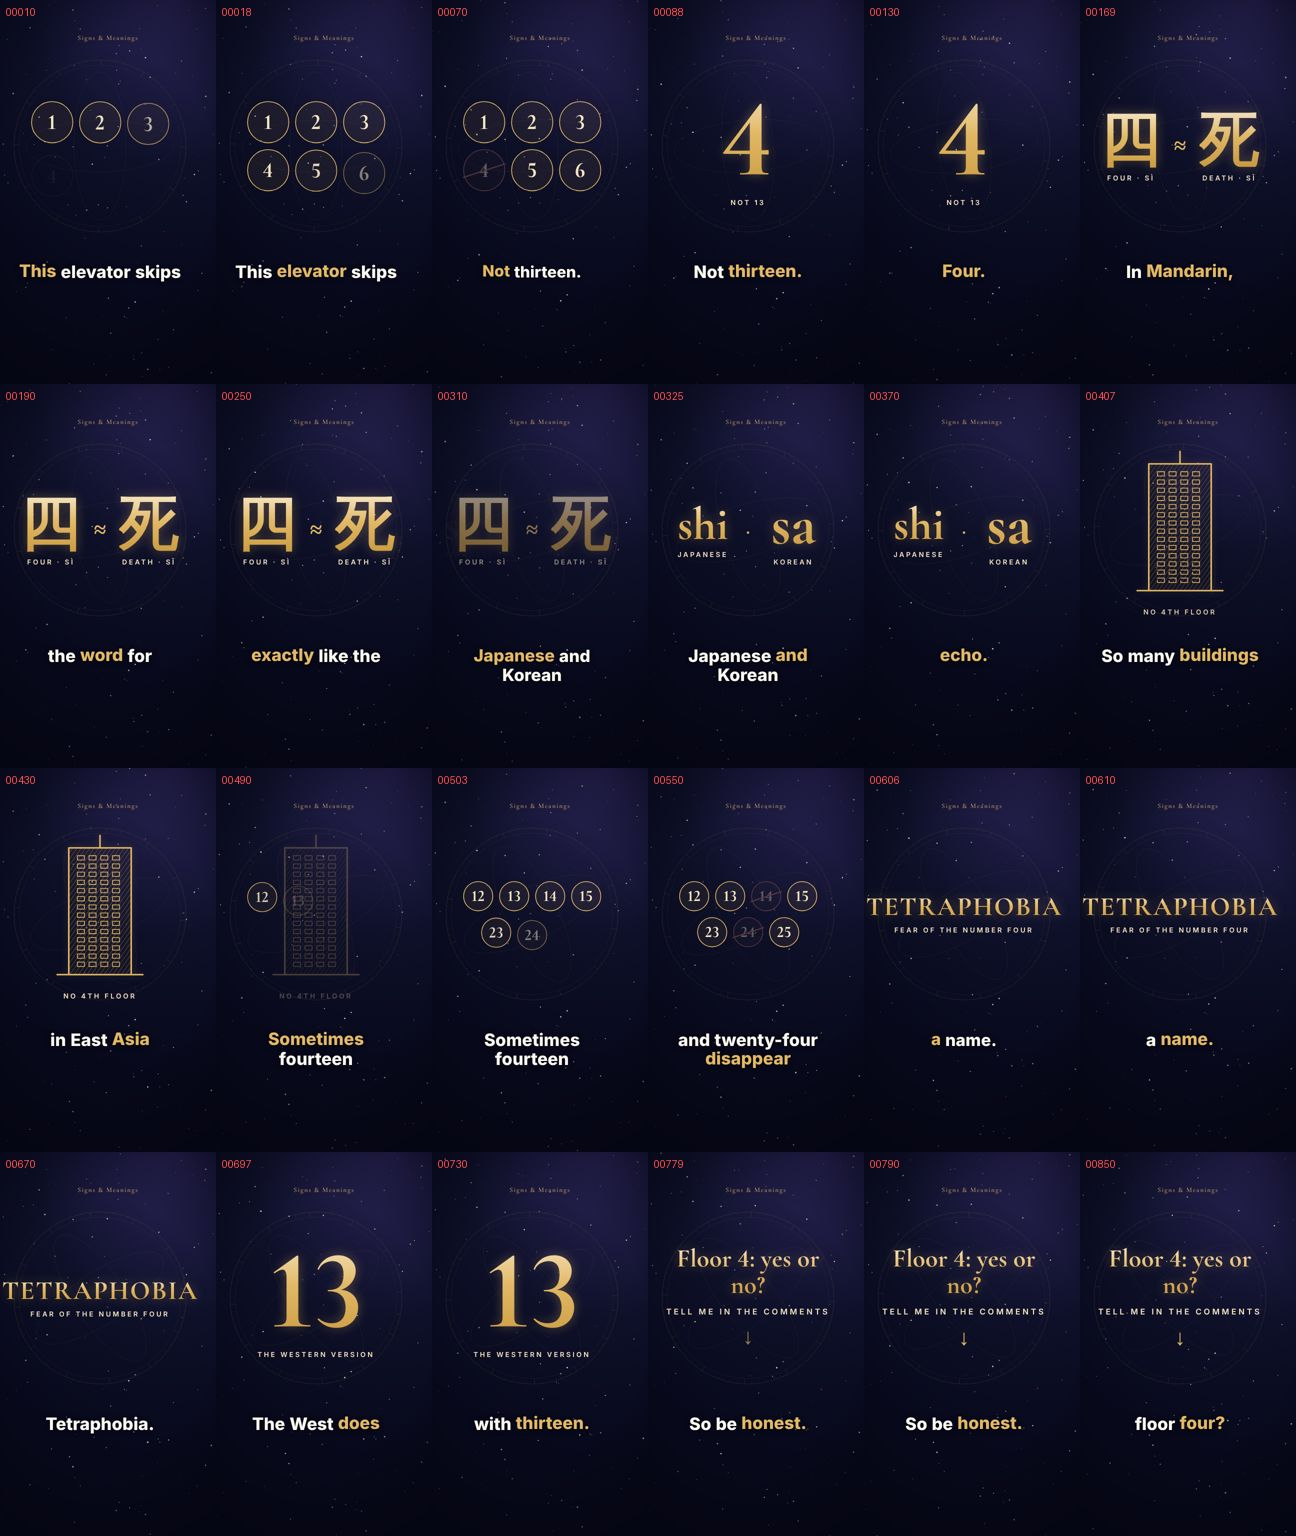
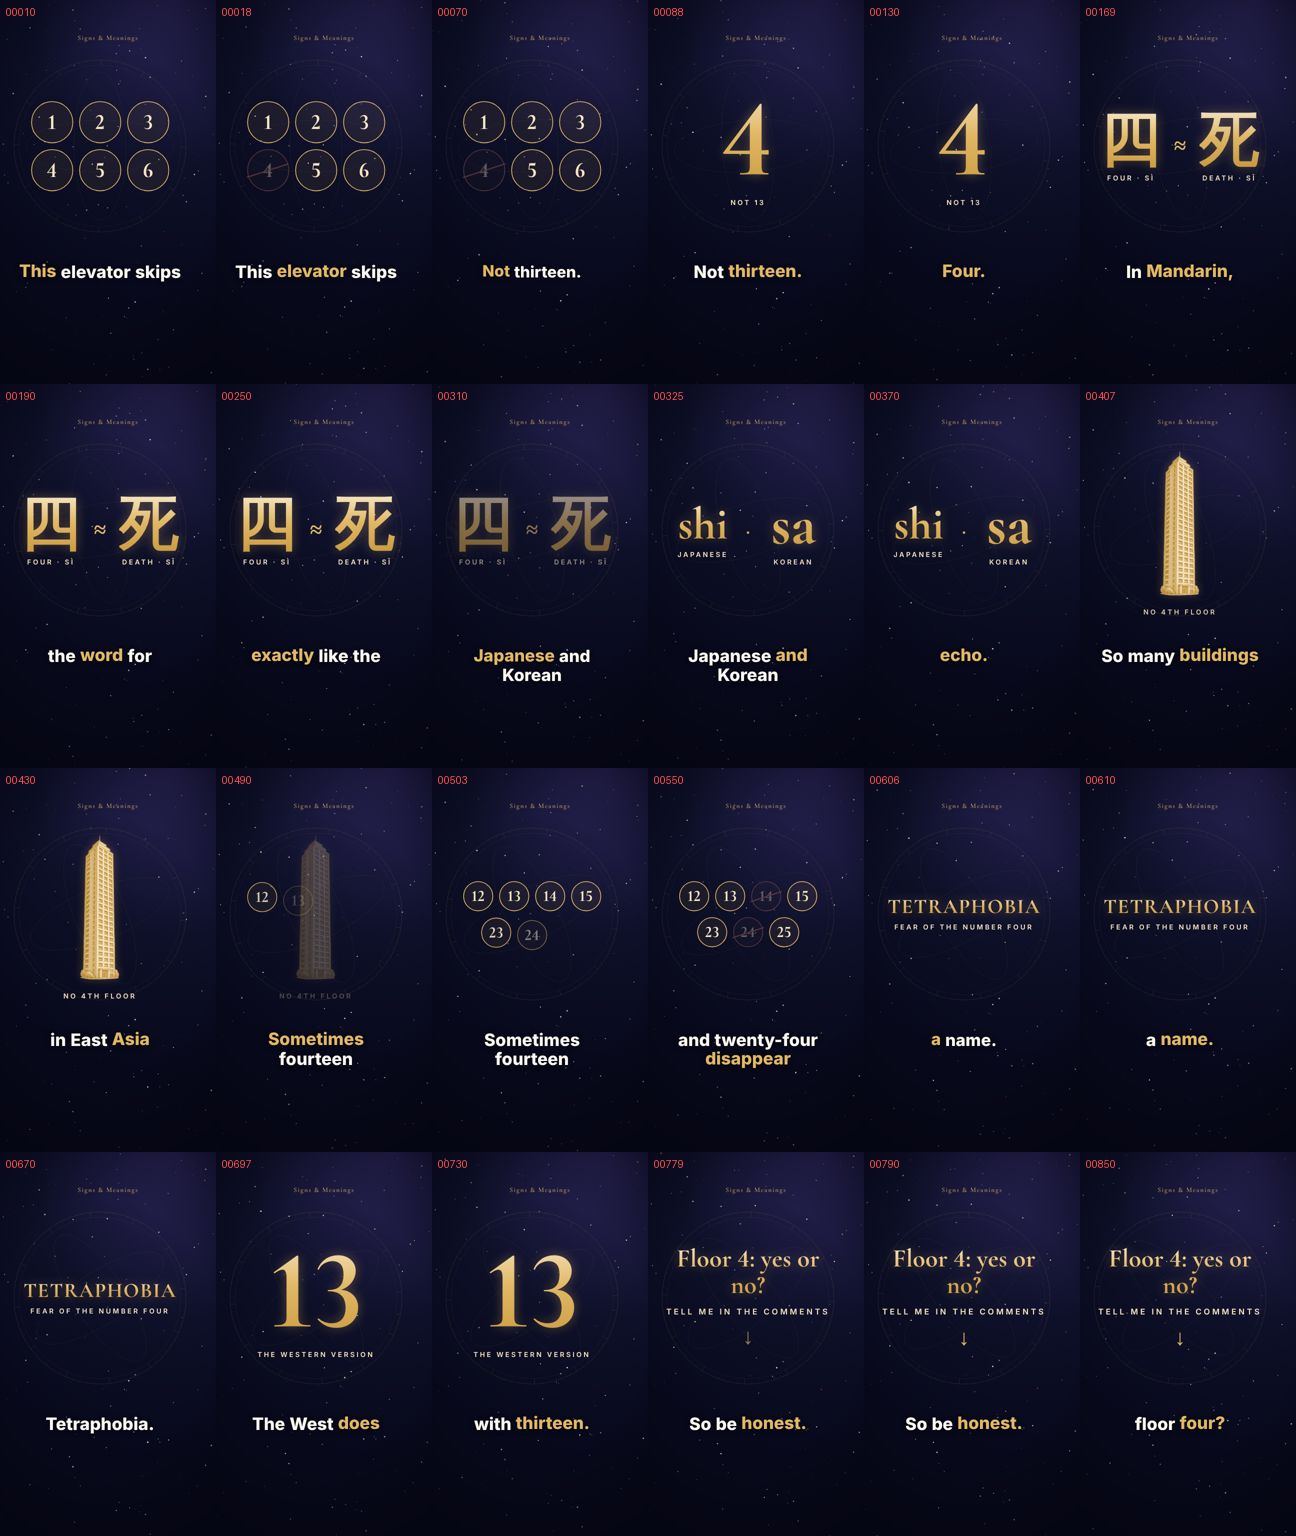
YouTube: ilustracje z Higgsfield w szablonie
Pobrane 25 ilustracji (popiersie, profil głowy, zwierzęta, zodiak,
wieża, kapsuła, papirus, paragon, księga, cylinder, rzeka), poprawki
dopasowania tytułów i nadruku na paragonie, pobieranie przez curl.

Claude-Session: https://claude.ai/code/session_01G7RTkXWw8gtYnuoojmJeYG

diff --git a/youtube/src/Visuals.tsx b/youtube/src/Visuals.tsx
@@ -69,8 +69,8 @@ const Sub: React.FC<{ text?: string; frame: number; delay?: number; size?: numbe
 // Font size that fits the stage width: capitals are wider than digits and lower case.
 const fit = (s: string, max: number, width = 820) => {
   const longest = s.split(' ').reduce((m, w) => Math.max(m, w.length), 0) || s.length;
-  const k = /[A-Z]{2,}/.test(s) ? 0.72 : 0.56;
-  const line = s.length > 12 ? longest : s.length;
+  const k = /[A-Z]{2,}/.test(s) ? 0.72 : s.includes('·') ? 0.47 : 0.56;
+  const line = s.includes('·') || s.length <= 12 ? s.length : longest;
   return Math.min(max, Math.floor(width / (line * k)));
 };
 const bigSize = (s: string) => fit(s, 560);
@@ -78,7 +78,7 @@ const bigSize = (s: string) => fit(s, 560);
 const Title: React.FC<VisualProps> = ({ v, frame, dur }) => (
   <Stage>
     <div style={{ transform: drift(frame, dur, v.move), ...enter(frame, false), textAlign: 'center' }}>
-      <div style={{ fontFamily: SERIF, fontWeight: 700, fontSize: bigSize(v.big), lineHeight: 0.95, letterSpacing: v.big.length > 6 ? '0.04em' : 0, ...goldText }}>{v.big}</div>
+      <div style={{ fontFamily: SERIF, fontWeight: 700, fontSize: bigSize(v.big), lineHeight: 0.95, letterSpacing: v.big.length > 6 ? '0.04em' : 0, whiteSpace: v.big.includes('·') ? 'nowrap' : undefined, ...goldText }}>{v.big}</div>
     </div>
     <Sub text={v.sub} frame={frame} />
   </Stage>
@@ -189,7 +189,7 @@ const ImageV: React.FC<VisualProps> = ({ v, frame, dur, prev }) => {
       <div style={{ position: 'relative', transform: drift(frame, dur, v.move), ...enter(frame, cont) }}>
         <Art id={v.img} size={780} draw={cont ? 1 : ramp(frame, 0, 26)} />
         {v.overlay ? (
-          <div style={{ position: 'absolute', inset: 0, display: 'flex', alignItems: 'center', justifyContent: 'center', fontFamily: SERIF, fontWeight: 700, fontSize: v.overlay.length > 4 ? 150 : 220, opacity: ramp(frame, 14, 10), ...goldText }}>{v.overlay}</div>
+          <div style={{ position: 'absolute', inset: 0, display: 'flex', alignItems: 'center', justifyContent: 'center', fontFamily: SERIF, fontWeight: 700, fontSize: v.overlayInk === 'dark' ? 120 : v.overlay.length > 4 ? 150 : 220, opacity: ramp(frame, 14, 10), ...(v.overlayInk === 'dark' ? { color: C.night, textShadow: '0 0 18px rgba(255,255,255,0.4)' } : goldText) }}>{v.overlay}</div>
         ) : null}
       </div>
       <Sub text={v.label} frame={frame} delay={cont ? 0 : 12} />

diff --git a/youtube/CHANNEL.md b/youtube/CHANNEL.md
@@ -97,10 +97,8 @@ Format z najlepszym „viewed vs swiped away” dostaje 70% kolejnej serii.
 | Render (Remotion, w tej sesji) | — | 0 |
 | **Razem za 20 shortów** | | **≈ 2,85 $ (~14 centów za short)** |
 
-## 9. Do zrobienia przed publikacją 4 pozostałych shortów
+## 9. Ilustracje
 
-`f06`, `f07`, `f08`, `m04` potrzebują ilustracji z Higgsfield (popiersie, profil głowy, kot/szczur/królik, 12 zwierząt
-zodiaku). Wszystkie są już wygenerowane, adresy są w `content/higgsfield-images.json`, ale to środowisko nie może ich
-pobrać. W ustawieniach środowiska → **Network access** → Allowed domains dodaj `d8j0ntlcm91z4.cloudfront.net`, a w nowej
-sesji napisz: „uruchom `node scripts/fetch-images.mjs` i wyrenderuj f06, f07, f08, m04”. Pozostałe 16 shortów jest
-gotowych do publikacji.
+Wszystkie 20 shortów jest gotowych. Ilustracje z Higgsfield (25 sztuk) są w `public/img/`, a ich źródła w
+`content/higgsfield-images.json`. Obiekty bez ilustracji (drzwi, kamienie, zegary, księżyce, tablica rejestracyjna,
+napierśnik, sfera armilarna, mak) szablon rysuje sam w tym samym stylu.
